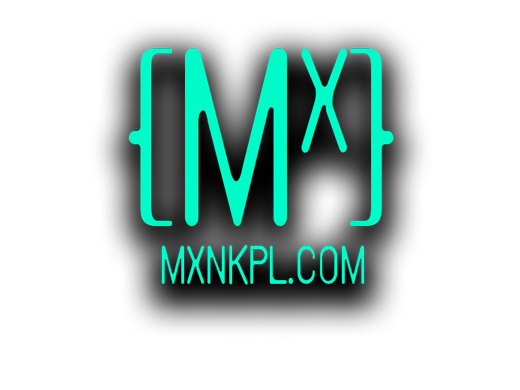
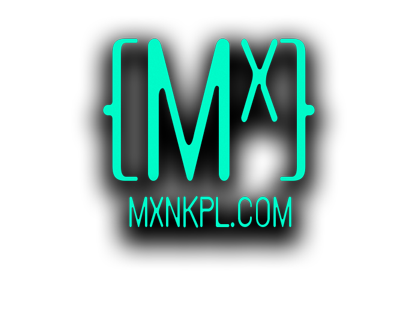
fixes read me img sizes

diff --git a/README.md b/README.md
@@ -30,7 +30,7 @@ Before a paper is exposed, the image layer is a clear gelatin matrix holding the
 
 > .. gelatin silver printing is an example of "latent" printing, in which an image is activated by light, but is not revealed until submerged in a developer solution. In this case, a negative image is projected onto paper treated with light-sensitive chemicals: silver halide suspended in gelatin (a viscous liquid made from animal collagen). A series of chemical baths will subsequently reveal the latent image, halt the development, remove its sensitivity to light, and fine-tune contrast.
 
-                                                    - [Artspace on Gelatin Silver Processing](https://www.artspace.com/magazine/art_101/collecting-101/whats-a-chromogenic-pigment-or-gelatin-print-the-ultimate-guide-to-digital-and-chemical-photo-54752)
+                                                     [Artspace on Gelatin Silver Processing](https://www.artspace.com/magazine/art_101/collecting-101/whats-a-chromogenic-pigment-or-gelatin-print-the-ultimate-guide-to-digital-and-chemical-photo-54752)
 
 
 <br  />
@@ -60,8 +60,10 @@ An attempt to record and develop a better understanding of [reciprocity in photo
 
 ## M<sup>X</sup>
 
-![Max Logo](mx-seafoam.png =50)
-
+<div align="center">
+<img src="mx-seafoam.png"></img>
+![Max Logo](mx-seafoam.png)
+</div>
 <br   />
 <div align="center">
 <a href="https//mxnkpl.com/"> MXNKPL.COM</a> | <a href="https//mxnkpl.com/blog/" >BLOG </a>
